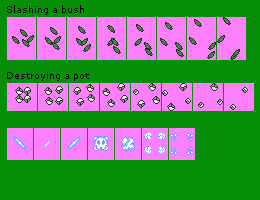
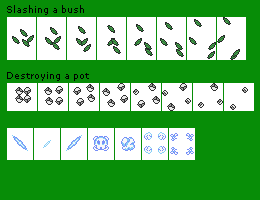
Npc outside (#51)
* Added: Bushes to the map

* Modified: Overworld map to block Link's paths

* Fixed bushes' pixels

* Added: bushes

* Fixed: blocked path

* Modified: Dialogs

* Fixed transparency of sfx

diff --git a/objects/objects.c b/objects/objects.c
@@ -14,7 +14,105 @@ object overworld_objects[6] = {
     { .type = NUL_OBJECT}
 };
 
-object overworld2_objects[1] = {
+object overworld2_objects[100] = {
+    { .type = NPC, .abs_pos = vec_create(880, 1480)},
+    { .type = BUSH, .abs_pos = vec_create(740, 1816)},
+    { .type = BUSH, .abs_pos = vec_create(756, 1816)},
+    { .type = BUSH, .abs_pos = vec_create(756, 1832)},
+    { .type = BUSH, .abs_pos = vec_create(740, 1832)},
+    { .type = BUSH, .abs_pos = vec_create(660, 1816)},
+    { .type = BUSH, .abs_pos = vec_create(644, 1816)},
+    { .type = BUSH, .abs_pos = vec_create(628, 1816)},
+    { .type = BUSH, .abs_pos = vec_create(660, 1832)},
+    { .type = BUSH, .abs_pos = vec_create(644, 1832)},
+    { .type = BUSH, .abs_pos = vec_create(628, 1832)},
+    { .type = BUSH, .abs_pos = vec_create(564, 1816)},
+    { .type = BUSH, .abs_pos = vec_create(564, 1832)},
+    { .type = BUSH, .abs_pos = vec_create(548, 1816)},
+    { .type = BUSH, .abs_pos = vec_create(548, 1832)},
+    { .type = BUSH, .abs_pos = vec_create(932, 1880)},
+    { .type = BUSH, .abs_pos = vec_create(932, 1896)},
+    { .type = BUSH, .abs_pos = vec_create(948, 1896)},
+    { .type = BUSH, .abs_pos = vec_create(948, 1912)},
+    { .type = BUSH, .abs_pos = vec_create(964, 1912)},
+    { .type = BUSH, .abs_pos = vec_create(820, 1608)},
+    { .type = BUSH, .abs_pos = vec_create(788, 1592)},
+    { .type = BUSH, .abs_pos = vec_create(692, 1592)},
+    { .type = BUSH, .abs_pos = vec_create(676, 1608)},
+    { .type = BUSH, .abs_pos = vec_create(771, 1461)},
+    { .type = BUSH, .abs_pos = vec_create(787, 1461)},
+    { .type = BUSH, .abs_pos = vec_create(771, 1477)},
+    { .type = BUSH, .abs_pos = vec_create(787, 1477)},
+    { .type = BUSH, .abs_pos = vec_create(723, 1461)},
+    { .type = BUSH, .abs_pos = vec_create(723, 1477)},
+    { .type = BUSH, .abs_pos = vec_create(707, 1461)},
+    { .type = BUSH, .abs_pos = vec_create(707, 1477)},
+    { .type = BUSH, .abs_pos = vec_create(899, 1461)},
+    { .type = BUSH, .abs_pos = vec_create(931, 1461)},
+    { .type = BUSH, .abs_pos = vec_create(915, 1445)},
+    { .type = BUSH, .abs_pos = vec_create(899, 1429)},
+    { .type = BUSH, .abs_pos = vec_create(179, 1477)},
+    { .type = BUSH, .abs_pos = vec_create(179, 1493)},
+    { .type = BUSH, .abs_pos = vec_create(163, 1477)},
+    { .type = BUSH, .abs_pos = vec_create(147, 1461)},
+    { .type = BUSH, .abs_pos = vec_create(131, 1461)},
+    { .type = BUSH, .abs_pos = vec_create(115, 1461)},
+    { .type = BUSH, .abs_pos = vec_create(99, 1445)},
+    { .type = BUSH, .abs_pos = vec_create(83, 1429)},
+    { .type = BUSH, .abs_pos = vec_create(67, 1429)},
+    { .type = BUSH, .abs_pos = vec_create(51, 1429)},
+    { .type = BUSH, .abs_pos = vec_create(548, 1848)},
+    { .type = BUSH, .abs_pos = vec_create(564, 1848)},
+    { .type = BUSH, .abs_pos = vec_create(659, 1189)},
+    { .type = BUSH, .abs_pos = vec_create(675, 1189)},
+    { .type = BUSH, .abs_pos = vec_create(691, 1189)},
+    { .type = BUSH, .abs_pos = vec_create(659, 1205)},
+    { .type = BUSH, .abs_pos = vec_create(675, 1205)},
+    { .type = BUSH, .abs_pos = vec_create(659, 1221)},
+    { .type = BUSH, .abs_pos = vec_create(723, 1205)},
+    { .type = BUSH, .abs_pos = vec_create(723, 1221)},
+    { .type = BUSH, .abs_pos = vec_create(659, 1189)},
+    { .type = BUSH, .abs_pos = vec_create(707, 1189)},
+    { .type = BUSH, .abs_pos = vec_create(755, 1189)},
+    { .type = BUSH, .abs_pos = vec_create(771, 1189)},
+    { .type = BUSH, .abs_pos = vec_create(787, 1189)},
+    { .type = BUSH, .abs_pos = vec_create(755, 1205)},
+    { .type = BUSH, .abs_pos = vec_create(771, 1205)},
+    { .type = BUSH, .abs_pos = vec_create(803, 1221)},
+    { .type = BUSH, .abs_pos = vec_create(819, 1221)},
+    { .type = BUSH, .abs_pos = vec_create(819, 1205)},
+    { .type = BUSH, .abs_pos = vec_create(899, 981)},
+    { .type = BUSH, .abs_pos = vec_create(899, 933)},
+    { .type = BUSH, .abs_pos = vec_create(867, 917)},
+    { .type = BUSH, .abs_pos = vec_create(899, 885)},
+    { .type = BUSH, .abs_pos = vec_create(867, 821)},
+    { .type = BUSH, .abs_pos = vec_create(899, 821)},
+    { .type = BUSH, .abs_pos = vec_create(899, 789)},
+    { .type = BUSH, .abs_pos = vec_create(867, 789)},
+    { .type = BUSH, .abs_pos = vec_create(899, 757)},
+    { .type = BUSH, .abs_pos = vec_create(867, 757)},
+    { .type = BUSH, .abs_pos = vec_create(883, 709)},
+    { .type = BUSH, .abs_pos = vec_create(899, 757)},
+    { .type = BUSH, .abs_pos = vec_create(931, 709)},
+    { .type = BUSH, .abs_pos = vec_create(867, 677)},
+    { .type = BUSH, .abs_pos = vec_create(931, 661)},
+    { .type = BUSH, .abs_pos = vec_create(867, 597)},
+    { .type = BUSH, .abs_pos = vec_create(195, 1221)},
+    { .type = BUSH, .abs_pos = vec_create(211, 1221)},
+    { .type = BUSH, .abs_pos = vec_create(227, 1221)},
+    { .type = BUSH, .abs_pos = vec_create(211, 1237)},
+    { .type = BUSH, .abs_pos = vec_create(211, 1237)},
+    { .type = BUSH, .abs_pos = vec_create(227, 1237)},
+    { .type = BUSH, .abs_pos = vec_create(243, 1237)},
+    { .type = BUSH, .abs_pos = vec_create(259, 1237)},
+    { .type = BUSH, .abs_pos = vec_create(275, 1237)},
+    { .type = BUSH, .abs_pos = vec_create(163, 965)},
+    { .type = BUSH, .abs_pos = vec_create(163, 981)},
+    { .type = BUSH, .abs_pos = vec_create(99, 645)},
+    { .type = BUSH, .abs_pos = vec_create(115, 645)},
+    { .type = BUSH, .abs_pos = vec_create(99, 661)},
+    { .type = BUSH, .abs_pos = vec_create(115, 661)},
+    { .type = BUSH, .abs_pos = vec_create(99, 597)},
     { .type = NUL_OBJECT },
 };
 

diff --git a/scenes/test/lib/interactions.c b/scenes/test/lib/interactions.c
@@ -10,7 +10,7 @@
 
 #include "../../../components/textboxes/textbox.h"
 
-const char NPC_DIALOG_QUEST[] = "Hi Link !\nPress I to open your\ninventory,\npress E to interact with\nthe world and select\nitems in your inventory,\nPress F to use your\nequipped item,\npress G to release what\nyou have in your hands.\nNow, go and kill enemies to\nget to level two !";
+const char NPC_DIALOG_QUEST[] = "Hi Link !\nPress G to use your\nsword,\nPress I to open your\ninventory,\npress E to interact with\nthe world and select\nitems in your inventory,\nPress F to use your\nequipped item,\npress R to release what\nyou have in your hands.\nNow, go and kill enemies to\nget to level two !";
 const char NPC_DIALOG_QUEST_DONE[] = "Wow ! You did it !\nyou reached level two !\nBut you will need\nmore training to help\nPrincess Zelda ..";
 
 void link_pick_object(link *lnk, object *objects)

diff --git a/objects/objects.h b/objects/objects.h
@@ -45,7 +45,7 @@ typedef struct object {
 } object;
 
 object overworld_objects[6];
-object overworld2_objects[1];
+object overworld2_objects[100];
 
 void init_overworld_objects(void);
 
